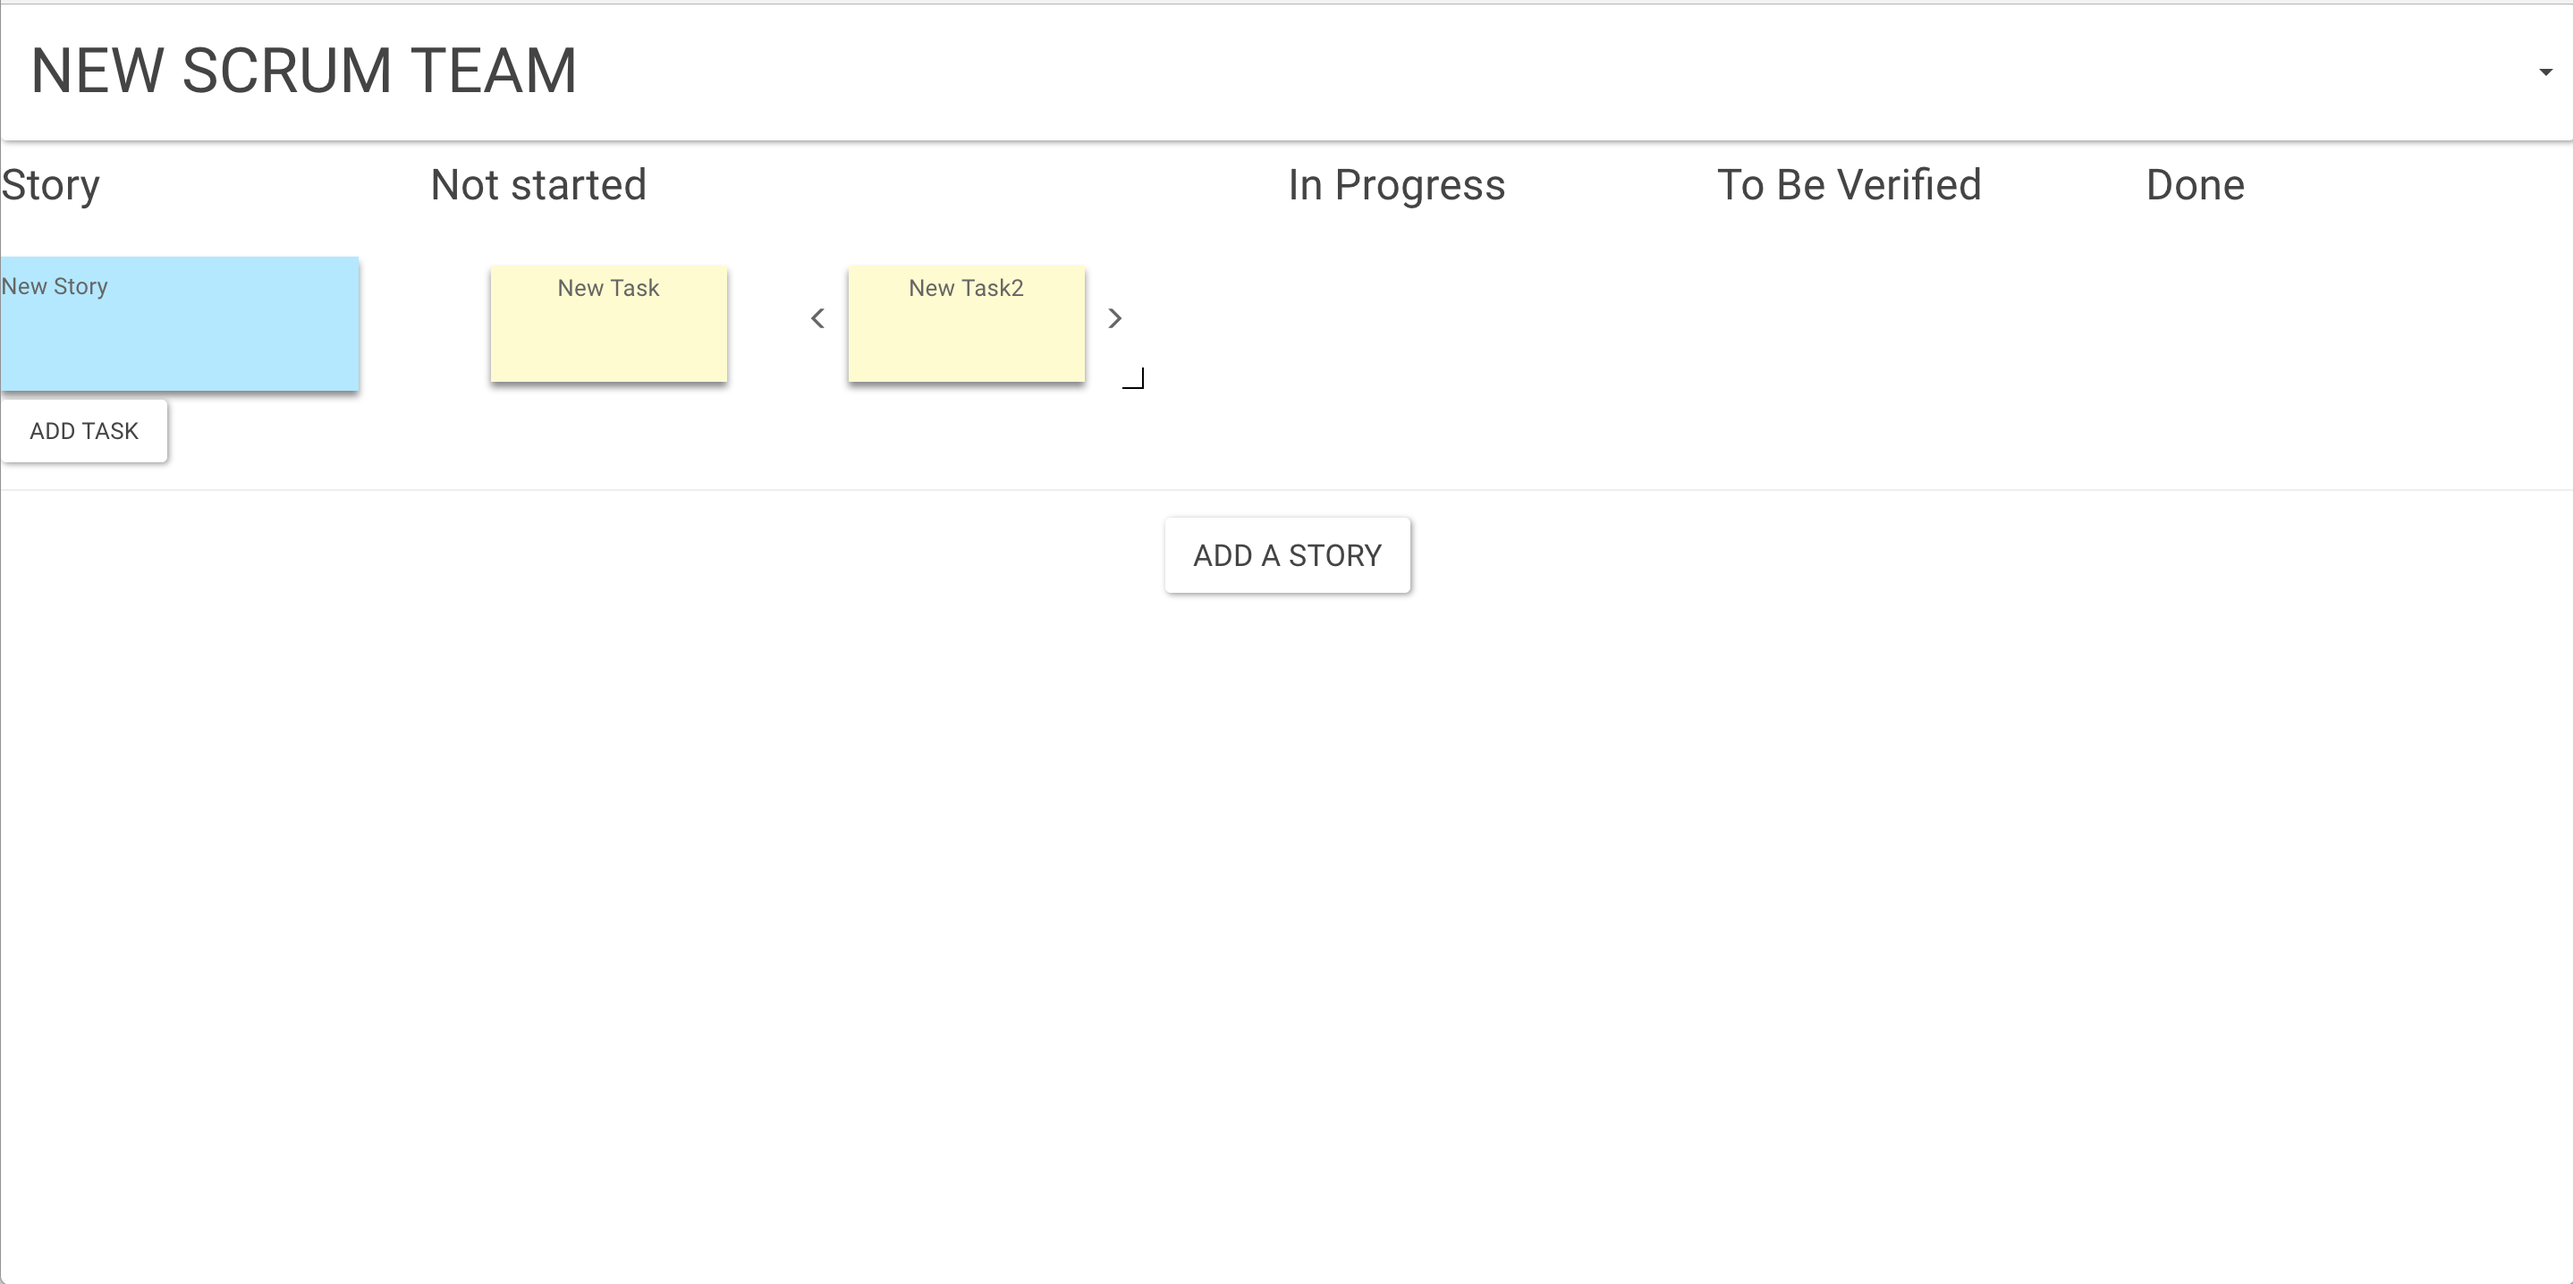
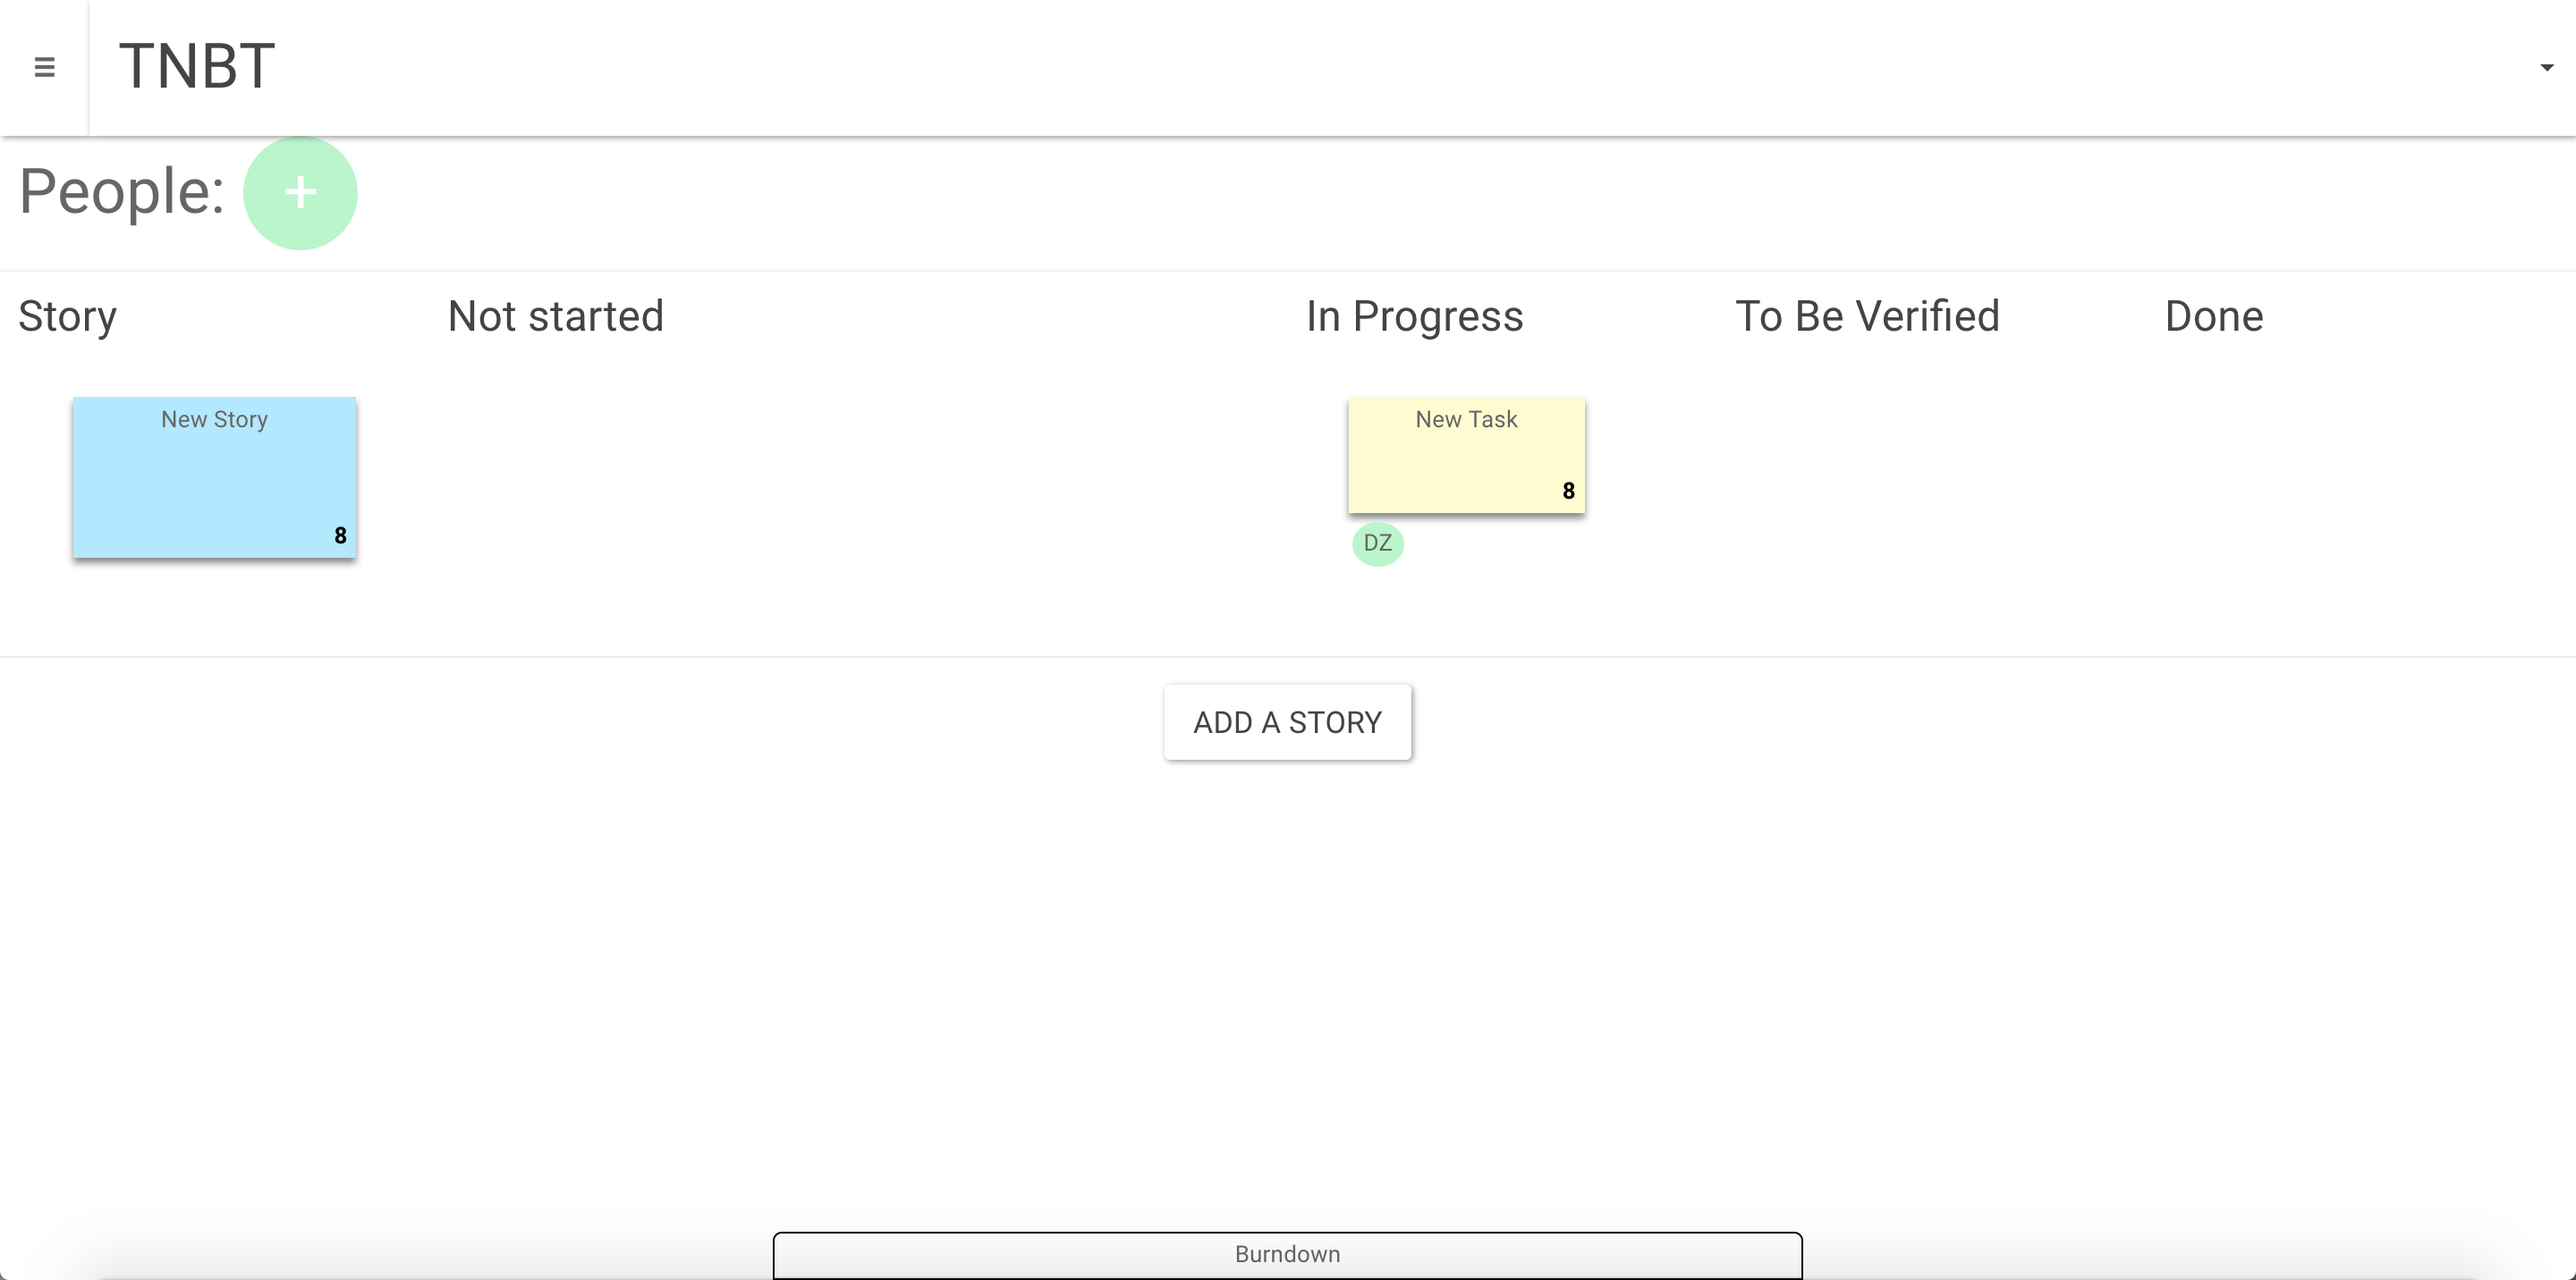
scrumboard new pix

diff --git a/index.html b/index.html
@@ -532,6 +532,9 @@
 		          <li>
 		            <img src="static/images/scrumboard.png" class="pix"/>
 		          </li>
+		          <li>
+		            <img src="static/images/scrumboard2.png" class="pix"/>
+		          </li>
 		        </ul>
 		      </div>
 		    </div>
